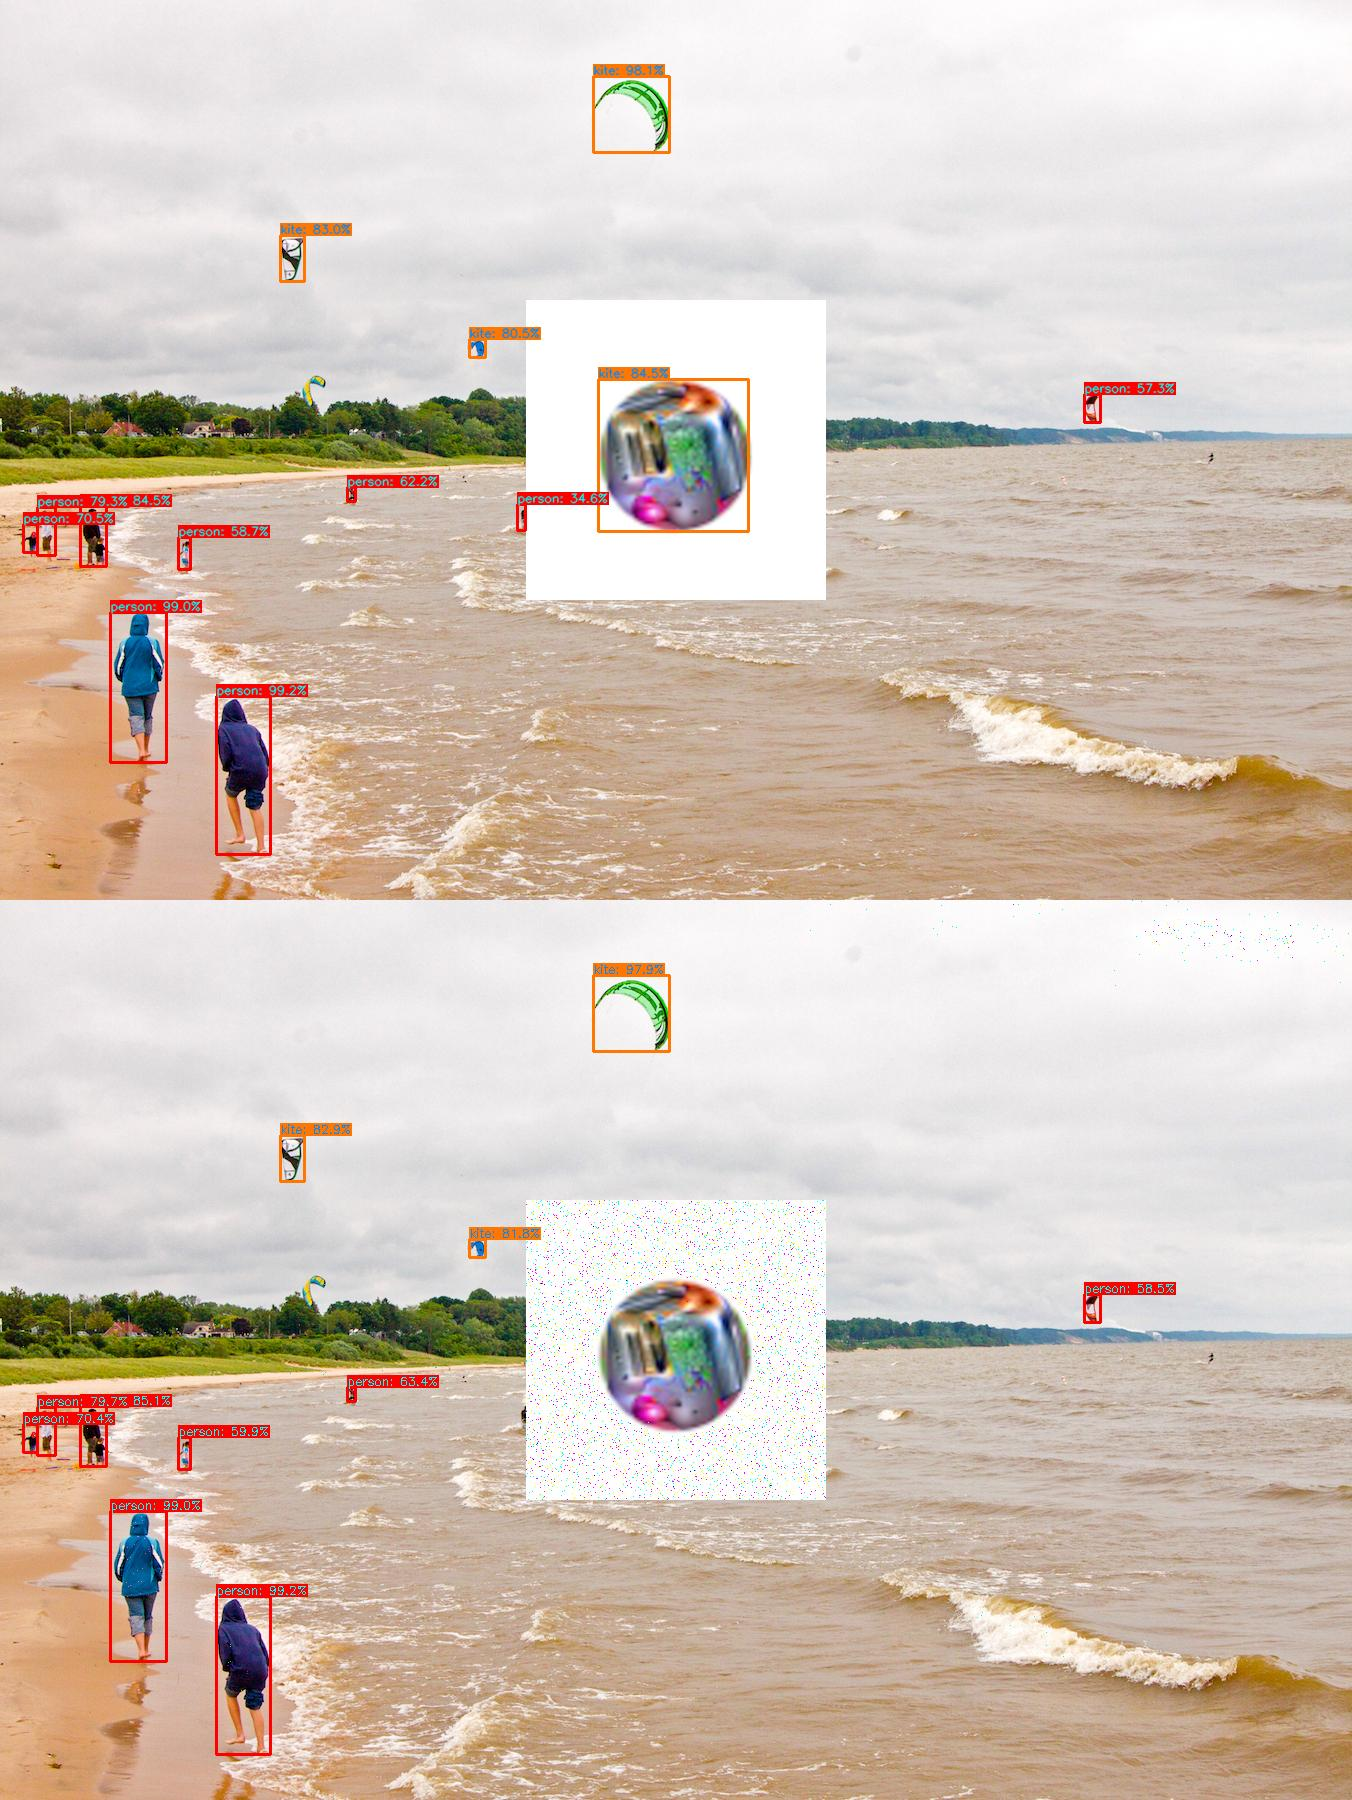
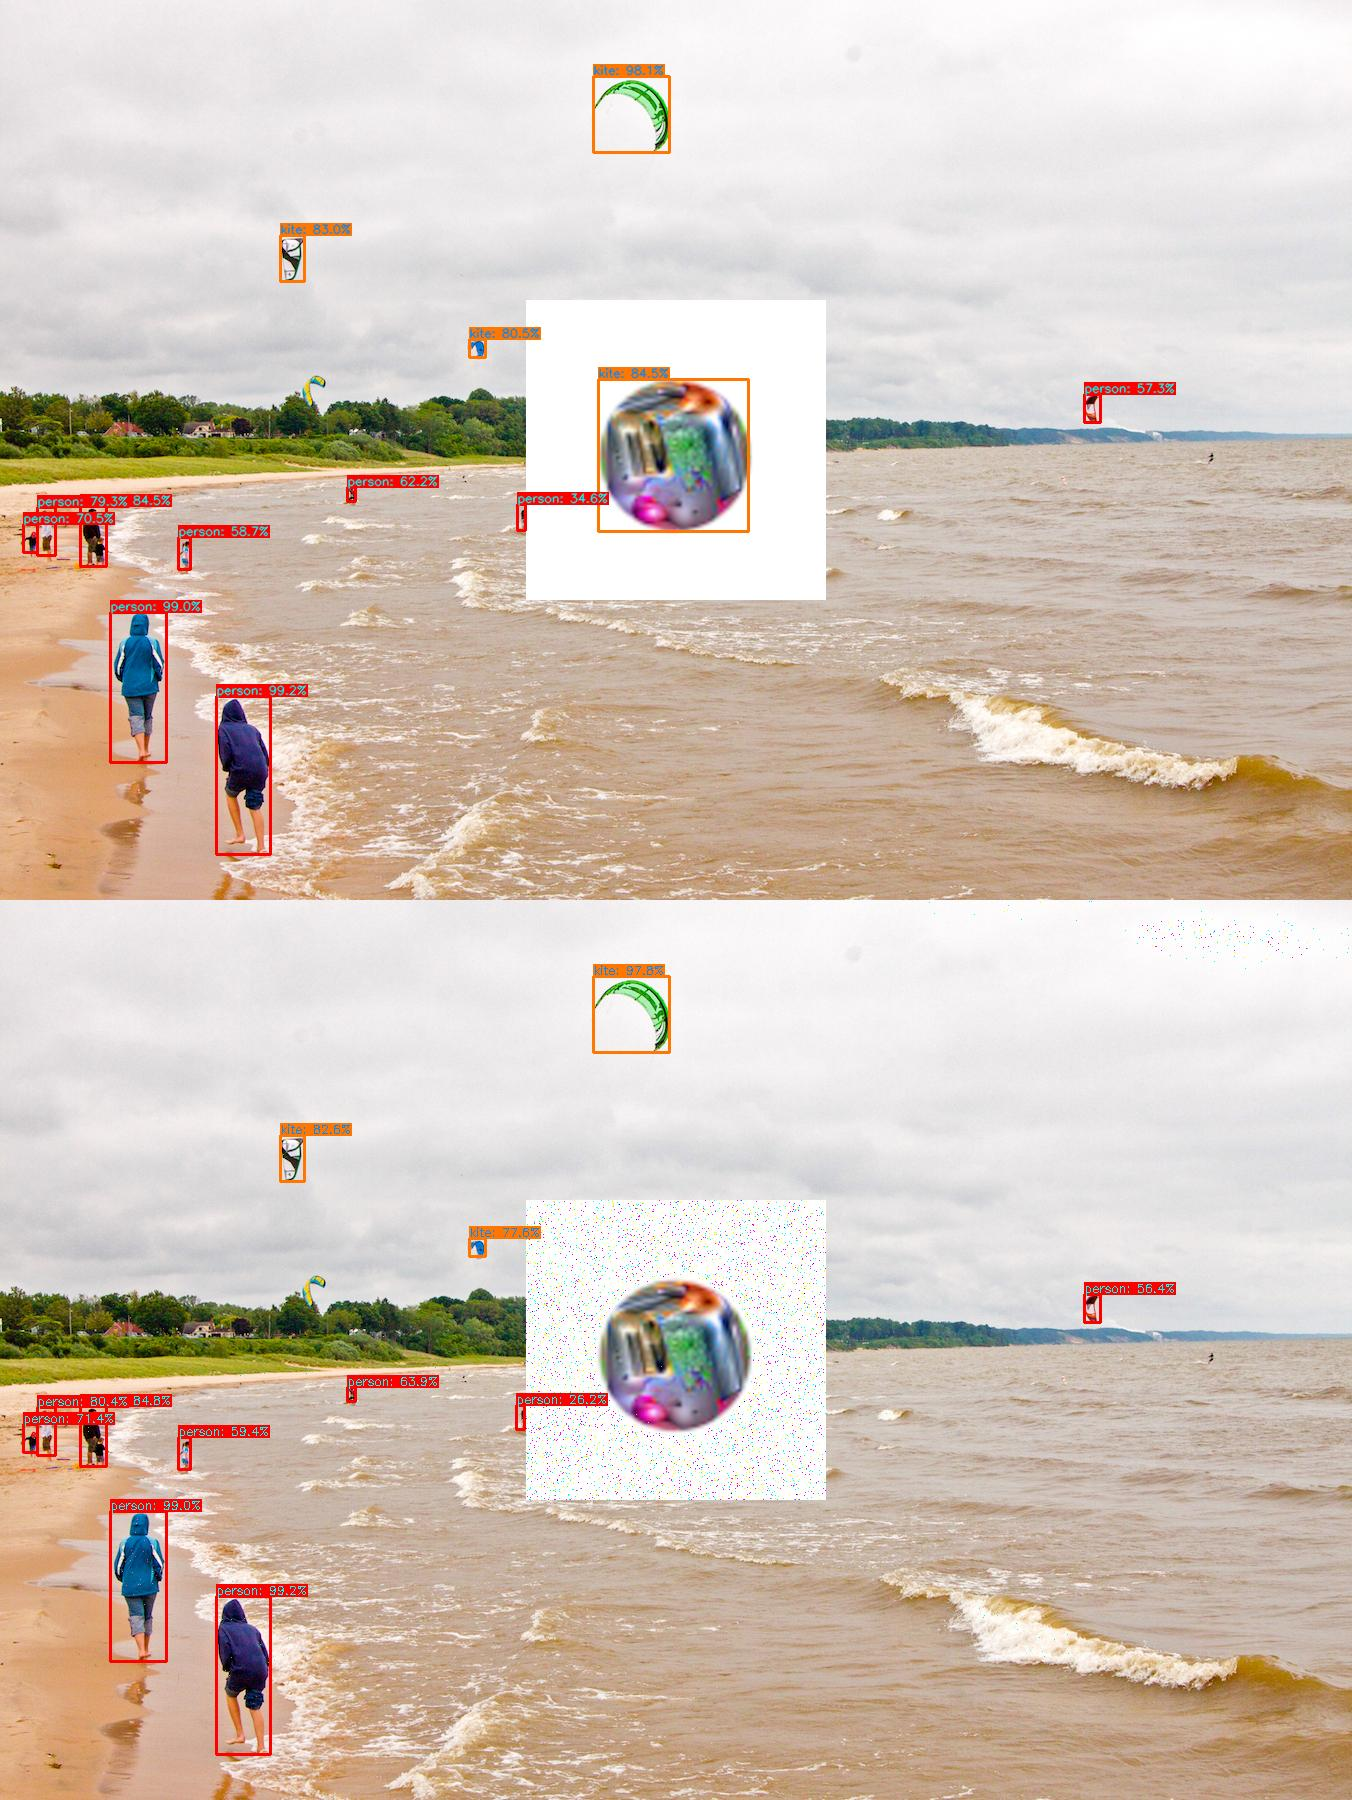
Adding some more adversaries and also the script to convert COCO to YOLO format

Changed region(s): [[0.3417, 0.6533, 0.6213, 0.84], [0.4349, 0.5289, 0.497, 0.56], [0.0621, 0.7778, 0.0932, 0.8089]]

diff --git a/images/imageSet/coco_to_yolo.py b/images/imageSet/coco_to_yolo.py
@@ -1,0 +1,120 @@
+import cv2
+import json
+
+class ConvertCOCOToYOLO:
+
+    """
+    Takes in the path to COCO annotations and outputs YOLO annotations in multiple .txt files.
+    COCO annotation are to be JSON formart as follows:
+        "annotations":{
+            "area":2304645,
+            "id":1,
+            "image_id":10,
+            "category_id":4,
+            "bbox":[
+                0::704
+                1:620
+                2:1401
+                3:1645
+            ]
+        }
+        
+    """
+
+    def __init__(self, img_folder, json_path):
+        self.img_folder = img_folder
+        self.json_path = json_path
+        
+
+    def get_img_shape(self, img_path):
+        img = cv2.imread(img_path)
+        try:
+            return img.shape
+        except AttributeError:
+            print('error!', img_path)
+            return (None, None, None)
+
+    def convert_labels(self, img_path, x1, y1, x2, y2):
+        """
+        Definition: Parses label files to extract label and bounding box
+        coordinates. Converts (x1, y1, x1, y2) KITTI format to
+        (x, y, width, height) normalized YOLO format.
+        """
+
+        def sorting(l1, l2):
+            if l1 > l2:
+                lmax, lmin = l1, l2
+                return lmax, lmin
+            else:
+                lmax, lmin = l2, l1
+                return lmax, lmin
+
+        size = self.get_img_shape(img_path)
+        xmax, xmin = sorting(x1, x2)
+        ymax, ymin = sorting(y1, y2)
+        dw = 1./size[1]
+        dh = 1./size[0]
+        x = (xmin + xmax)/2.0
+        y = (ymin + ymax)/2.0
+        w = xmax - xmin
+        h = ymax - ymin
+        x = x*dw
+        w = w*dw
+        y = y*dh
+        h = h*dh
+        return (x,y,w,h)
+
+    def convert(self,annotation_key='annotations',img_id='image_id',cat_id='category_id',bboxName='bbox'):
+        # Enter directory to read JSON file
+        data = json.load(open(self.json_path))
+        
+        check_set = set()
+
+        # Retrieve data
+        for i in range(len(data[annotation_key])):
+
+            # Get required data
+            image_id = f'{data[annotation_key][i][img_id]}'
+            image_id = image_id.zfill(12)
+            category_id = f'{data[annotation_key][i][cat_id]}'
+            bbox = data[annotation_key][i][bboxName]
+
+            # Retrieve image.
+            if self.img_folder == None:
+                image_path = f'{image_id}.jpg'
+            else:
+                image_path = f'./{self.img_folder}/{image_id}.jpg'
+
+
+            # Convert the data
+            kitti_bbox = [bbox[0], bbox[1], bbox[2] + bbox[0], bbox[3] + bbox[1]]
+            yolo_bbox = self.convert_labels(image_path, kitti_bbox[0], kitti_bbox[1], kitti_bbox[2], kitti_bbox[3])
+            
+            # Prepare for export
+            
+            filename = f'{image_id}.txt'
+            content =f"{category_id} {yolo_bbox[0]} {yolo_bbox[1]} {yolo_bbox[2]} {yolo_bbox[3]}"
+
+            # Export 
+            if image_id in check_set:
+                # Append to existing file as there can be more than one label in each image
+                file = open(filename, "a")
+                file.write("\n")
+                file.write(content)
+                file.close()
+
+            elif image_id not in check_set:
+                check_set.add(image_id)
+                # Write files
+                file = open(filename, "w")
+                file.write(content)
+                file.close()
+
+
+# To run in as a class
+ConvertCOCOToYOLO(img_folder='../val2017',json_path='../annotations/instances_val2017.json').convert()
+
+
+
+
+
